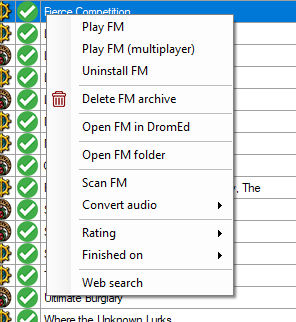
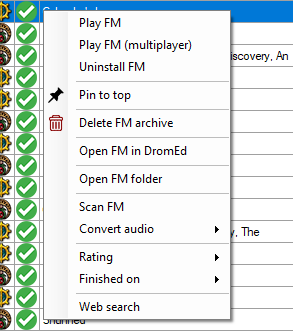
Update doc

diff --git a/doc/AngelLoader documentation.html b/doc/AngelLoader documentation.html
@@ -317,7 +317,7 @@ Displays the FM's last played date in the <a href="#settings_date_format">specif
 Displays the date the FM was added to the list.
 
 <h4>Disabled Mods</h4>
-Displays the disabled mods, if any, for the FM. If all mods are disabled for the FM, it will display "* [All]".
+Displays the disabled mods, if any, for the FM.
 
 <h4>Comment</h4>
 Displays the FM's comment, if any, up to the first 100 characters or the first linebreak, whichever comes first.
@@ -342,6 +342,9 @@ This item will only appear if Thief2MP.exe was found in the Thief 2 directory. C
 
 <h4>Install / Uninstall FM</h4>
 If the currently selected FM is not installed, this will install it; otherwise, it will uninstall it.
+
+<h4>Pin to top / Unpin from top</h4>
+You can choose to pin FMs to the top of list so that they will always remain there regardless of sorting or filtering. When an FM is pinned, this option will unpin it instead.
 
 <h4>Delete FM archive</h4>
 This will allow you to delete an FM's archive from disk. You can also press the Delete key while the FMs list is focused to achieve the same thing. In both cases, you will be asked for confirmation first.
@@ -401,17 +404,6 @@ Sometimes, multiple different titles will be detected during a scan. If the defa
 <h4>Release date and Last played</h4>
 If a date hasn't been scanned for or cannot be detected, its checkbox will be unchecked and no date will be shown.
 
-<h4>Disabled mods</h4>
-You can disable certain mods per-mission here. To see which mods you have installed, look at <code>cam_mod.ini</code> in your game folder. This string must be in the format <code>modname1+modname2+modname3</code> etc. So to disable the Enhancement Pack 2, it should be:
-
-<p><code>ep2</code></p>
-
-<p>To disable the Enhancement Pack 2 and the HD mod, it would be:</p>
-
-<p><code>ep2+hdmod</code></p>
-
-<p>To disable all mods for the current FM, check the <b>Disable all mods</b> checkbox.</p>
-
 <h4>Language selection</h4>
 Here you can choose to play an FM in a particular language. Only languages the FM supports will be available.
 
@@ -439,6 +431,22 @@ Some older fan missions don't quite work as they should when played with NewDark
 <h4>Open FM folder</h4>
 If you want to manually modify the FM's installed folder, you can open it here.<br>
 <a style="color:red;"><b>NOTE!</b></a> FM folders contain a special file, <code>fmsel.inf</code>, which must <a style="color:red;"><b>not</b></a> be deleted. This file contains metadata and is, due to its nature, not included in differential backups. While AngelLoader will sometimes be able to regenerate it or work without it, deleting it is asking for trouble. Don't do it.
+
+<h4><a name="mods_tab" />Mods tab</h4>
+
+<p><img src="images/mods_tab.png" /></p>
+
+<h4>Mods list</h4>
+Here you can enable or disable mods per-FM. Checked mods will be enabled and unchecked mods will be disabled. The <b>Disabled mods</b> text box will show disabled mods in the single-line format (like in FMSel) and can be edited manually if desired, but it's best to leave it and just use the checkboxes.
+
+<p/>
+
+Note that the list simply displays all mods that are specified in <code>cam_mod.ini</code>; you may or may not actually have all of them installed. If a mod is not actually installed, then enabling it will do nothing.
+
+<h4>Show important mods</h4>
+There are some mods that are vital to the normal functioning of an up-to-date Thief install, and should not be disabled under normal circumstances. Check this box to display those mods in the list anyway.
+
+<p/>
 
 <hr>
 
